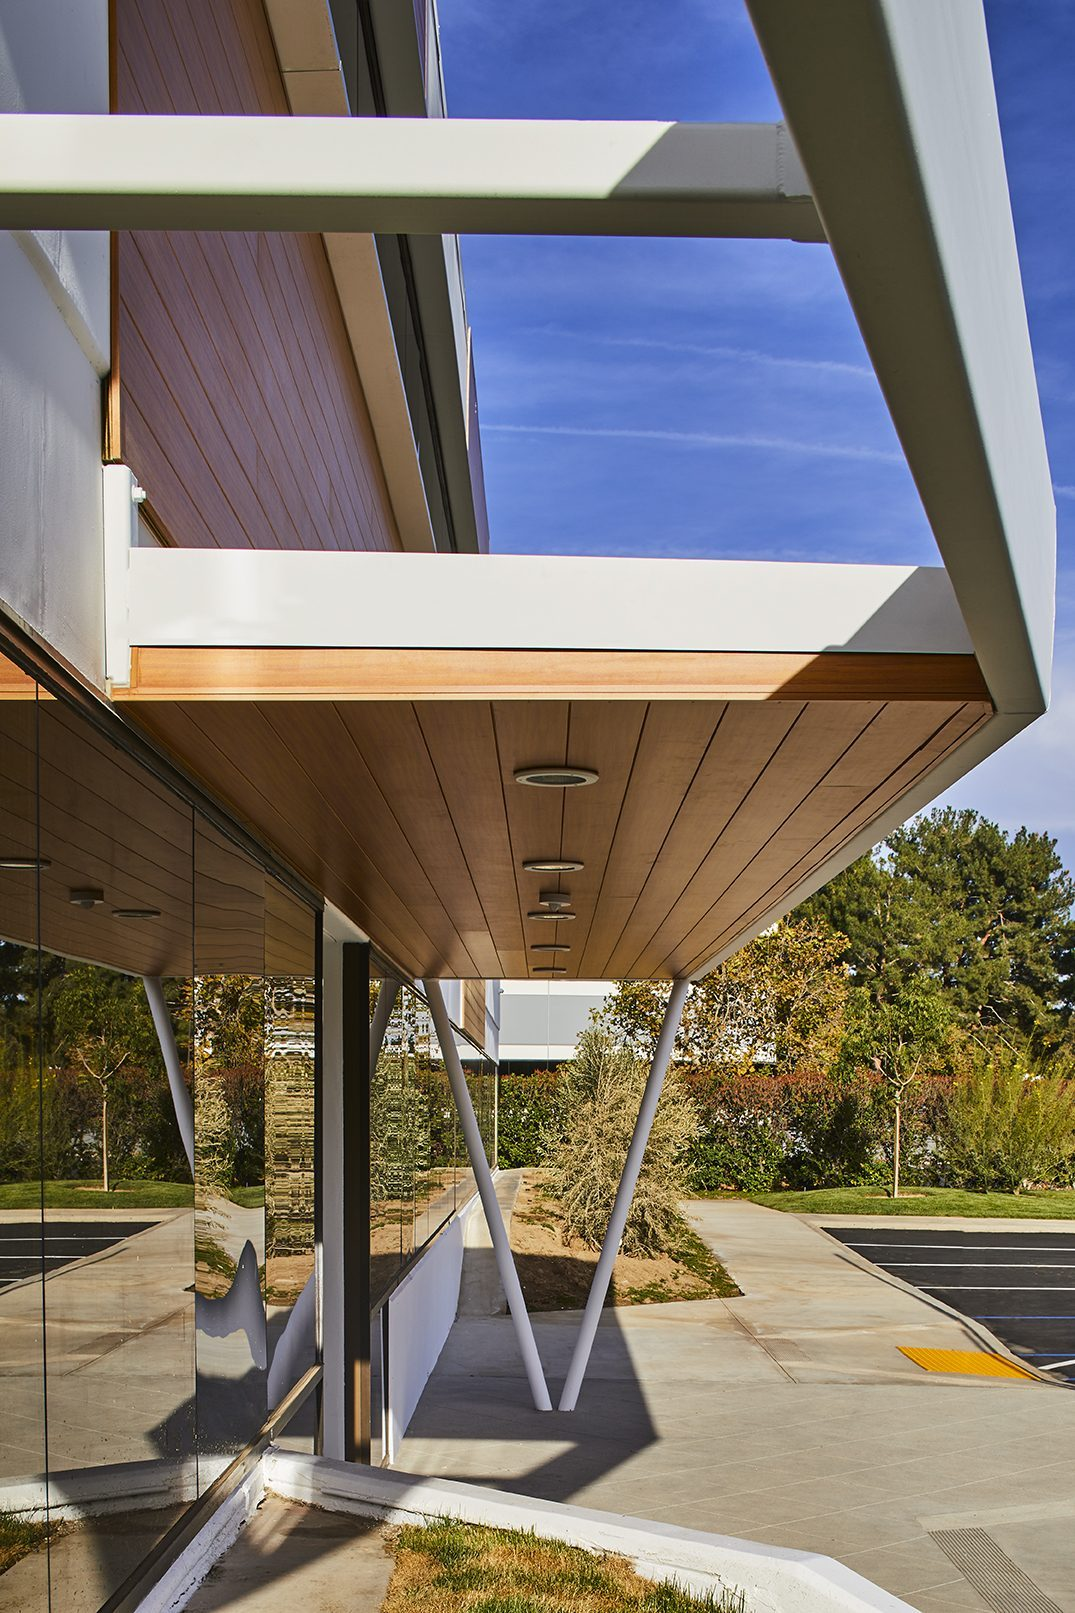
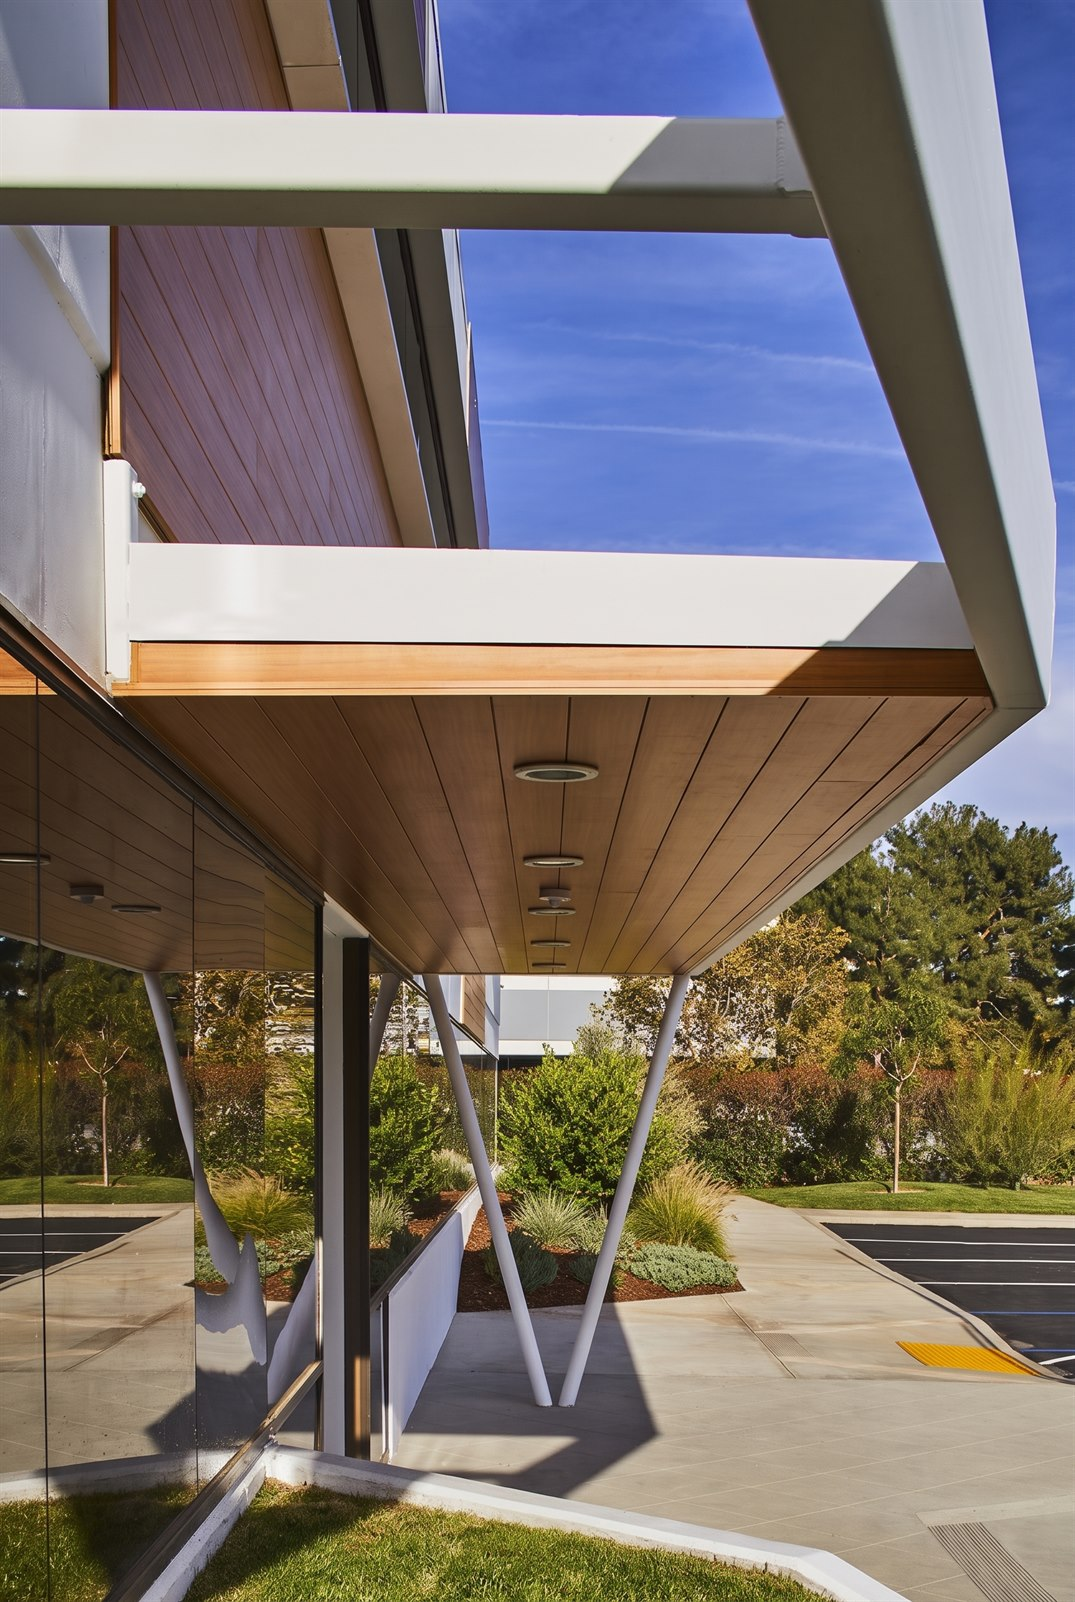
Rye Canyon canopy photo cleaned up, rounded case-study close button, repo matches the local folder
The entry canopy photo in the Rye Canyon case study has a green planting bed in place of the dead shrub, cleaner paving and a green lawn strip. The case-study close button has 6px corners. The repo now mirrors the local workspace folder: .vscode/settings.json is added and images/site/silhouette-mask.png, deleted locally, is removed.

diff --git a/index.html b/index.html
@@ -154,7 +154,7 @@ header nav[aria-label="Primary"] > a{text-transform:uppercase;letter-spacing:.12
 @supports (backdrop-filter:url(#gh-liquid)){
   .lg{backdrop-filter:url(#gh-liquid) blur(10px) saturate(1.7)}
 }
-.lg-light{border-radius:0;background:rgba(255,255,255,.62);
+.lg-light{border-radius:6px;background:rgba(255,255,255,.62);
   -webkit-backdrop-filter:blur(16px) saturate(1.8);backdrop-filter:blur(16px) saturate(1.8);
   box-shadow:inset 0 1px 0 rgba(255,255,255,.9),inset 0 0 0 1px rgba(255,255,255,.5),0 1px 2px rgba(0,0,0,.06),0 8px 24px rgba(0,0,0,.12)}
 /* BOXES and the main buttons have a small 6px corner: cards, tiles, form fields, Send, View services, the hero glass. The close, arrow and TOP buttons stay square. */
